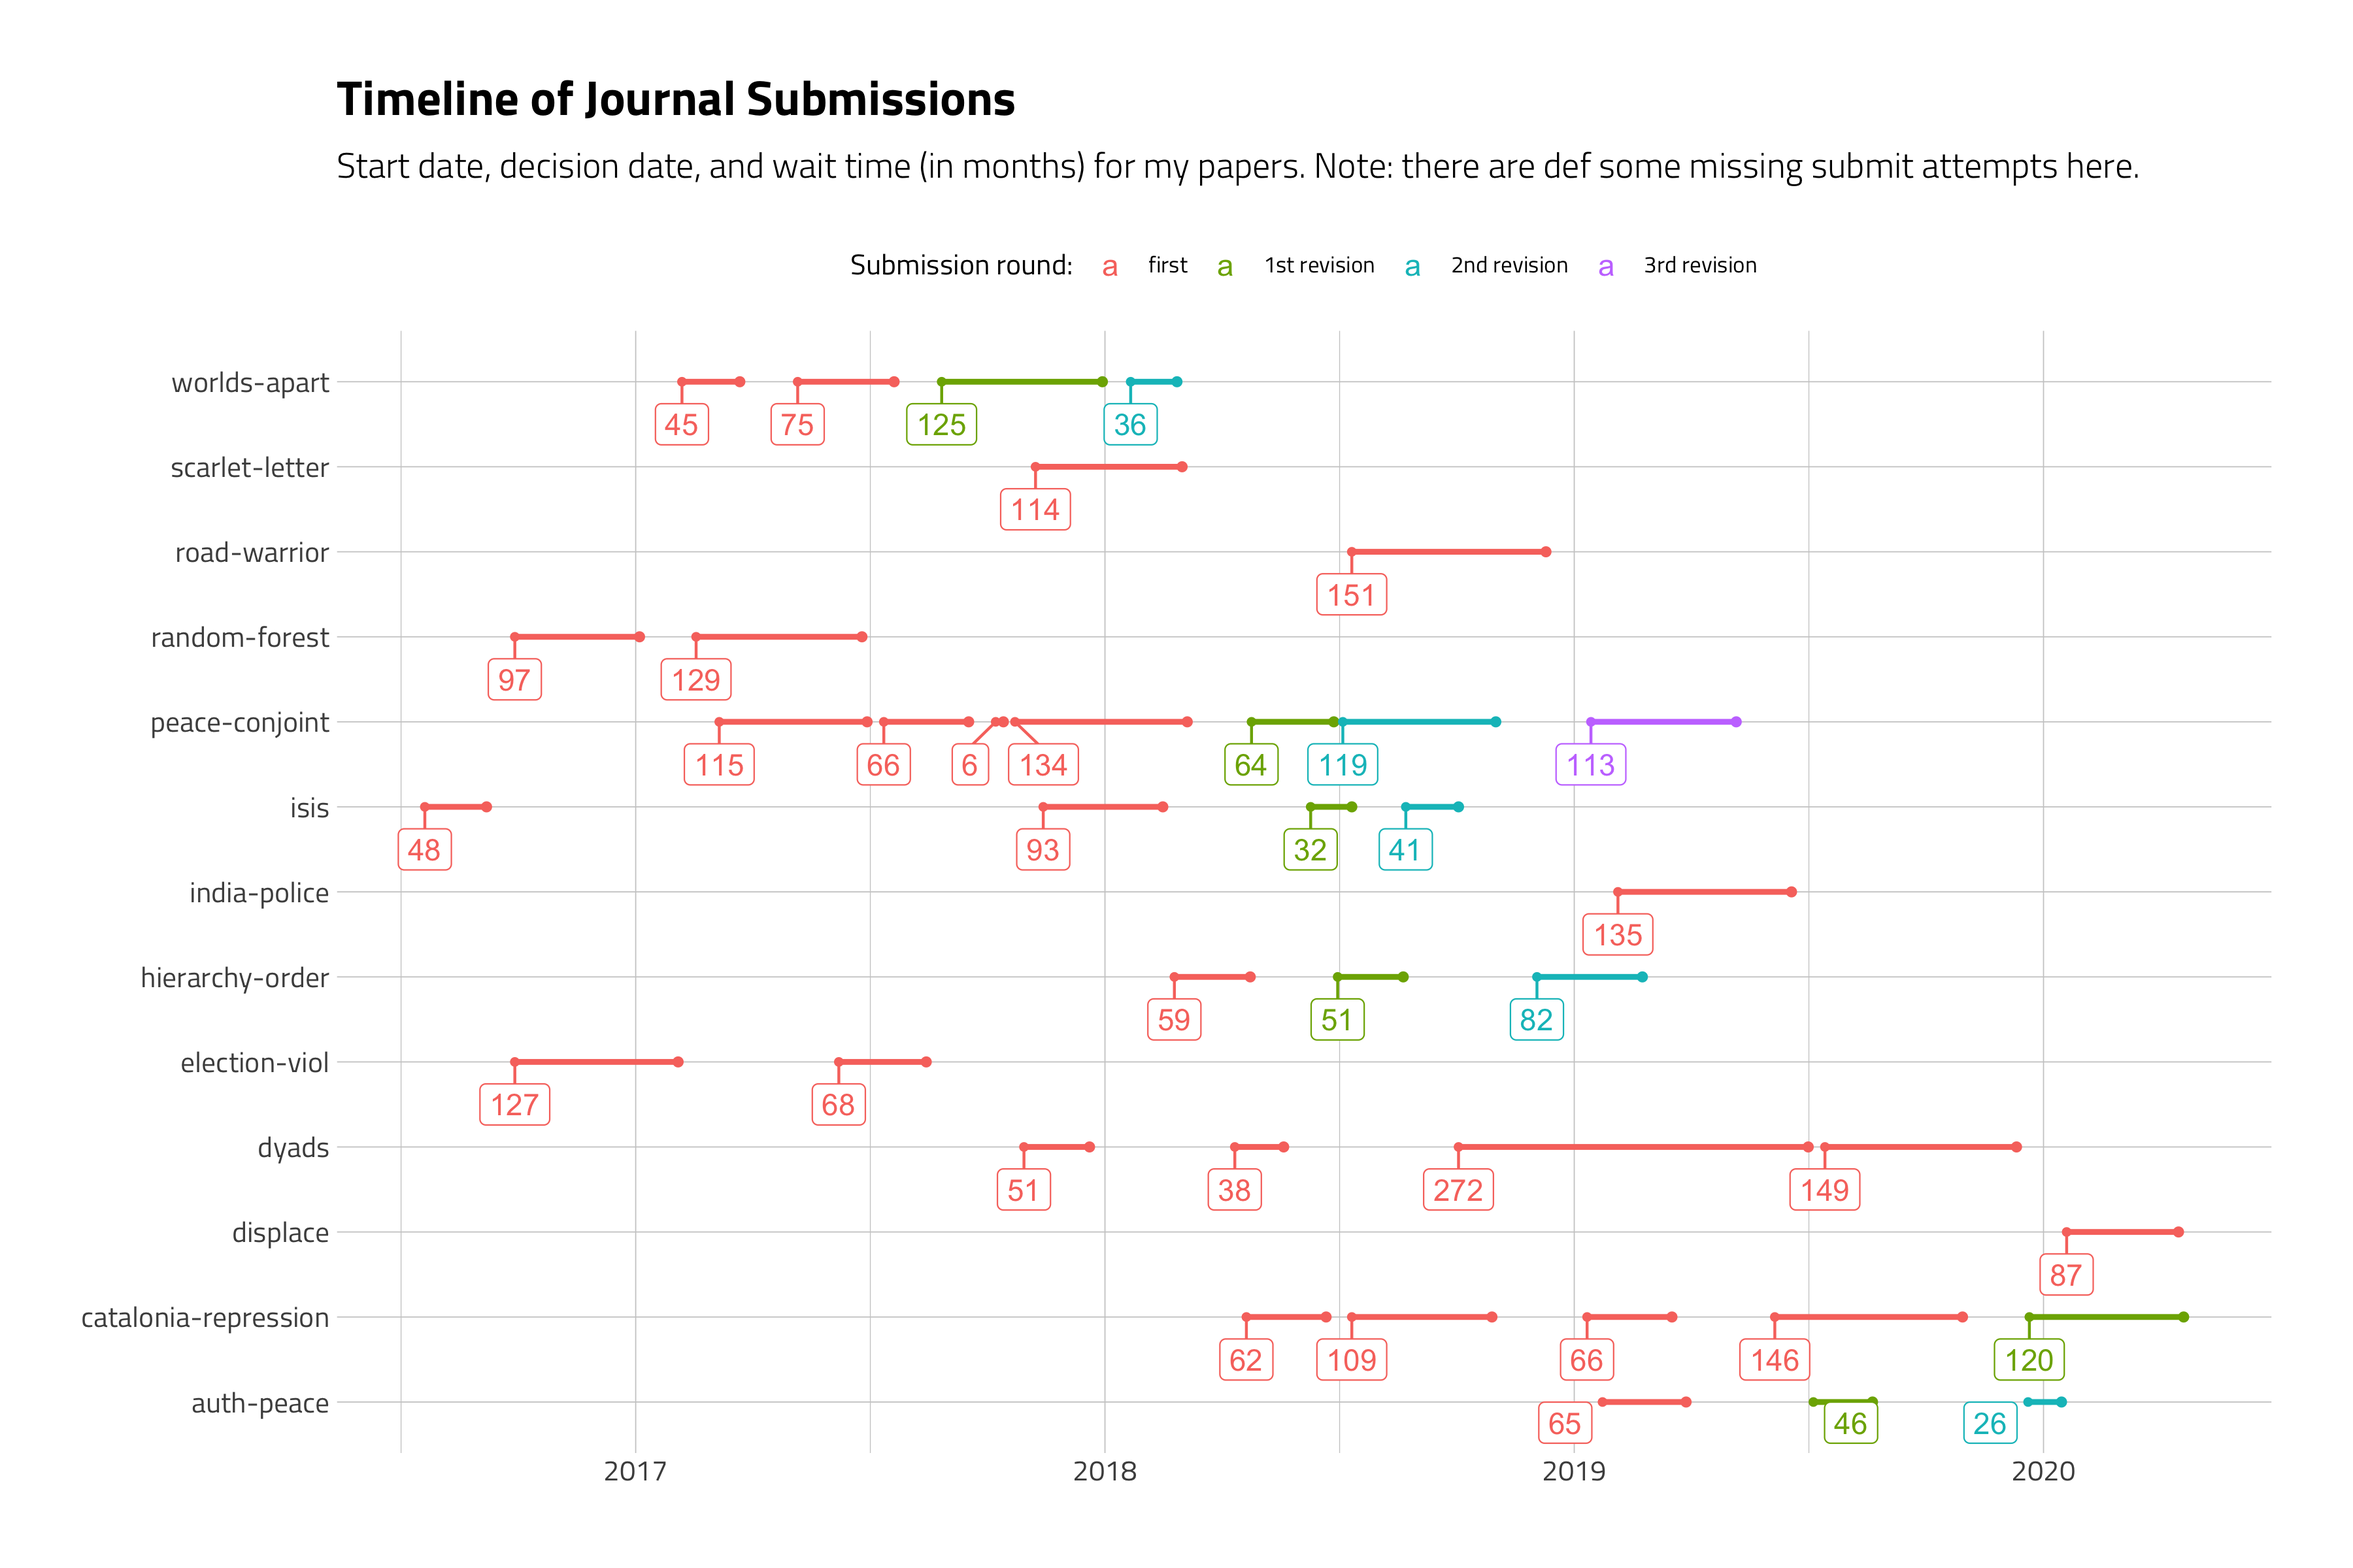
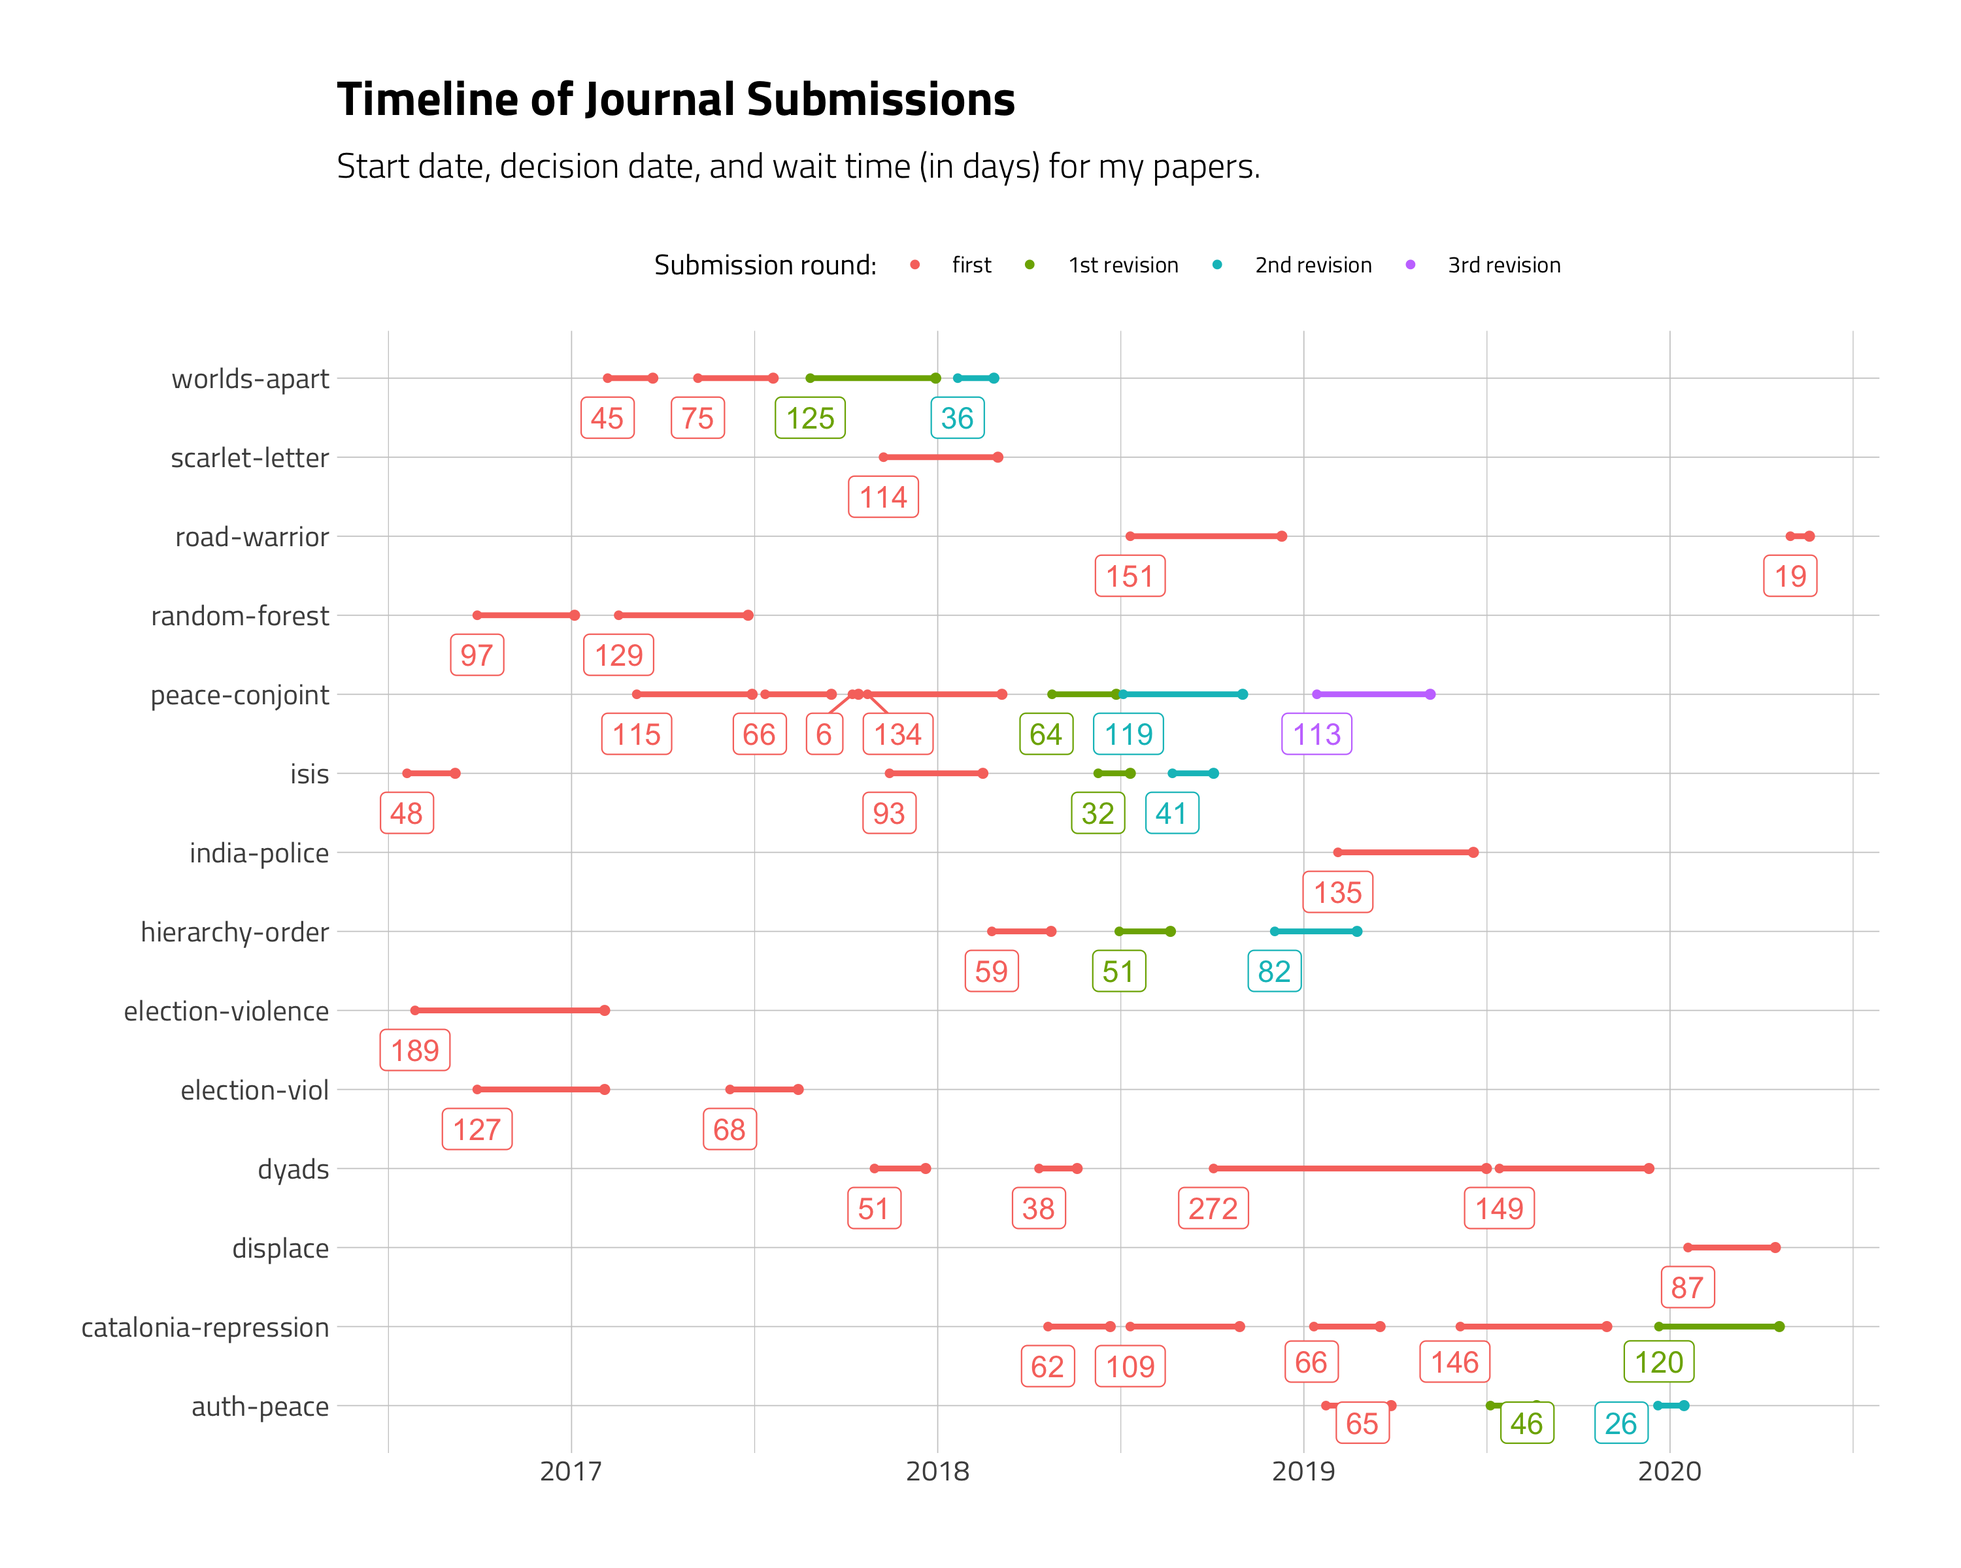
fixed image

diff --git a/content/post/publishing-timeline/index.html b/content/post/publishing-timeline/index.html
@@ -333,7 +333,8 @@ draft: false
   theme_ipsum_tw() + 
   ggrepel::geom_label_repel(nudge_y = -.5, show.legend = FALSE) + 
   theme(legend.position = &#39;top&#39;) + 
-  NULL</code></pre>
+  NULL
+ggsave(&quot;featured.png&quot;, width = 10, height = 8)</code></pre>
 <p><a href="featured.png"><img src="featured.png" /></a></p>
 <p>The first, obvious barrier to publication is getting past reviewers in the initial submission stage and to an invitation to revise and resubmit (R&amp;R). My papers have varied a lot in clearing that initial submission hurdle. Some can take a long time to find a home; <code>dyads</code> has been submitted to four different journals (actually, I think I’m missing a submission here) before landing an R&amp;R. Other papers, like <code>hierarchy-order</code>, landed an R&amp;R on the first try.</p>
 <p>Getting through that first barrier is crucial and the time to decision can vary a lot. In my experience, the median time to decision on a first submission is about 90 days, but can vary a lot: I’ve waited as long as 270 days (!!) for a response. R&amp;R’s are a good deal faster (median = 57.5) but also vary.</p>
